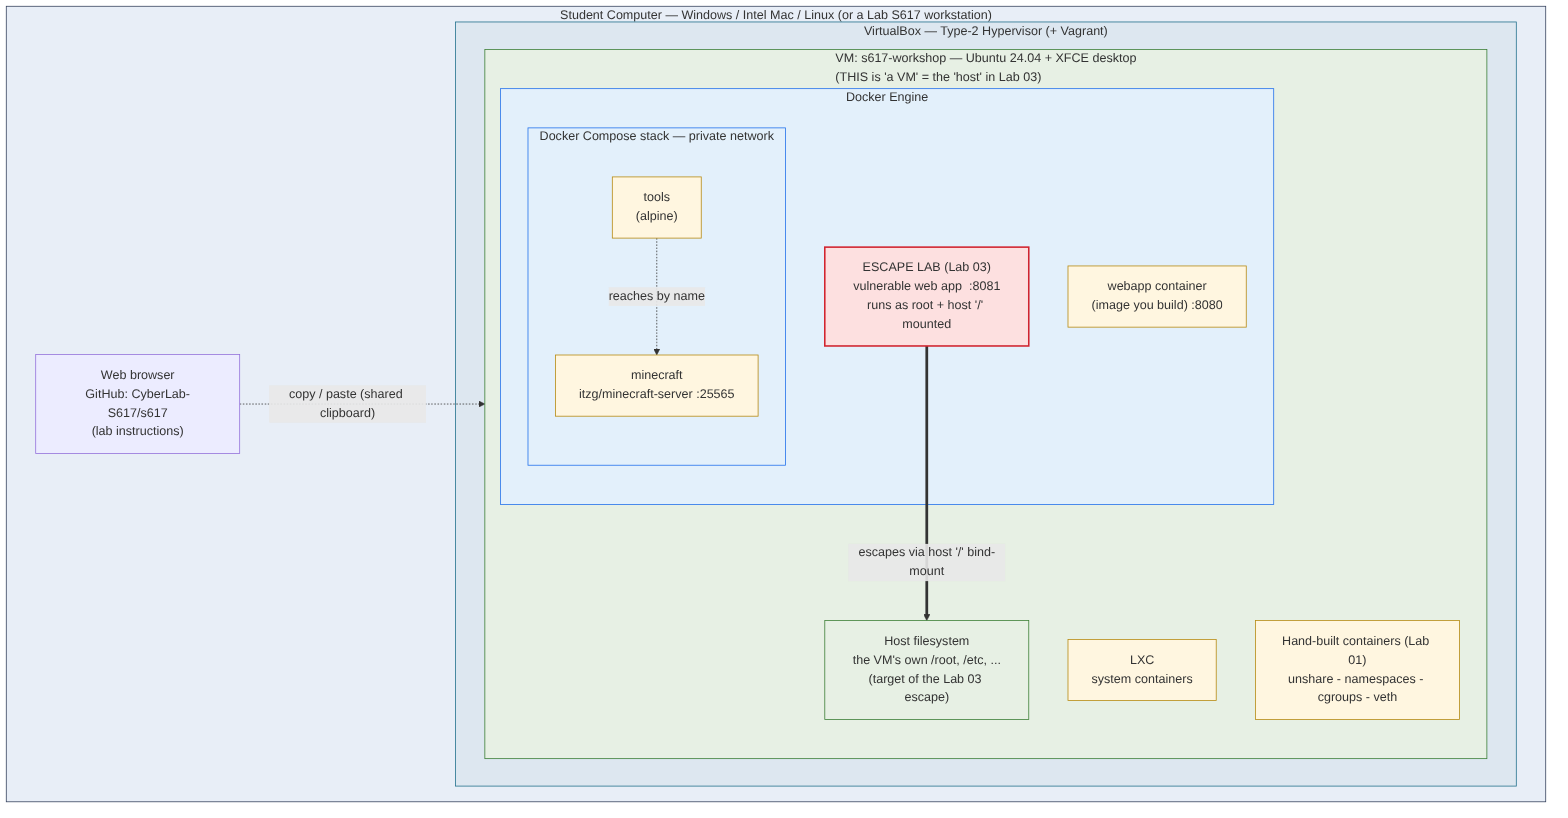
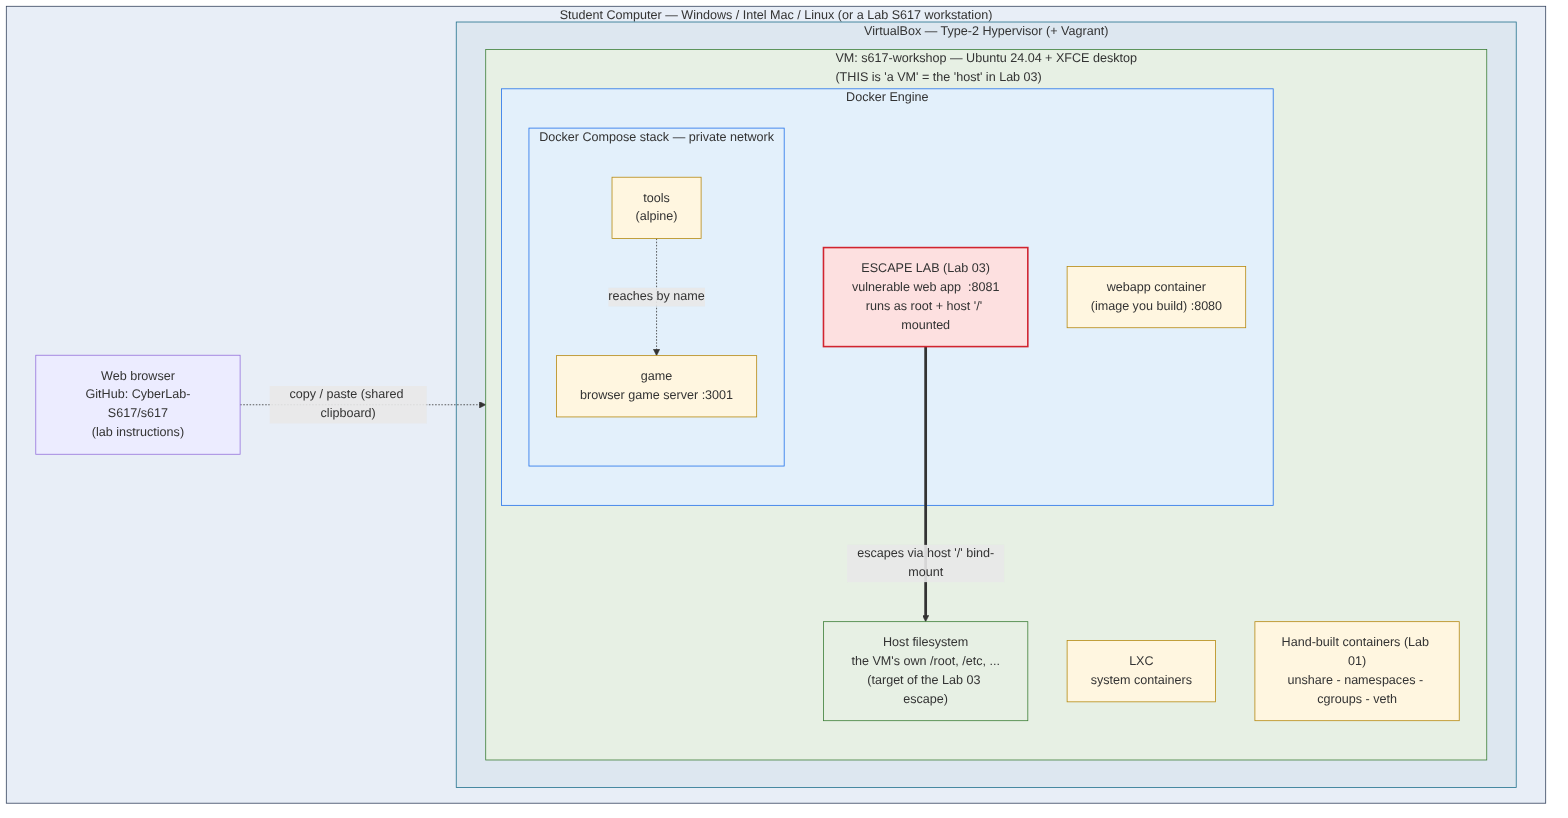
change to webgame

diff --git a/labs/00virtualization/topology.md b/labs/00virtualization/topology.md
@@ -1,0 +1,88 @@
+# Workshop Topology
+
+How the workshop fits together. The key idea students should take away is the
+**nesting**: a VM runs inside VirtualBox on their computer, and containers run
+inside that VM. **A VirtualBox window = a VM; a shell with a different prompt
+inside it = a container.**
+
+## Technical stack (what each student runs)
+
+```mermaid
+flowchart TB
+    subgraph HOST["Student Computer — Windows / Intel Mac / Linux  (or a Lab S617 workstation)"]
+        BROWSER["Web browser<br/>GitHub: CyberLab-S617/s617<br/>(lab instructions)"]
+        subgraph VBOX["VirtualBox — Type-2 Hypervisor  (+ Vagrant)"]
+            subgraph VM["VM: s617-workshop — Ubuntu 24.04 + XFCE desktop<br/>(THIS is 'a VM' = the 'host' in Lab 03)"]
+                subgraph DOCKER["Docker Engine"]
+                    WEB["webapp container<br/>(image you build)  :8080"]
+                    subgraph COMPOSE["Docker Compose stack — private network"]
+                        MC["game<br/>browser game server  :3001"]
+                        TOOLS["tools<br/>(alpine)"]
+                    end
+                    ESCAPE["ESCAPE LAB (Lab 03)<br/>vulnerable web app  :8081<br/>runs as root + host '/' mounted"]
+                end
+                HOSTFS["Host filesystem<br/>the VM's own /root, /etc, ...<br/>(target of the Lab 03 escape)"]
+                LXC["LXC<br/>system containers"]
+                HAND["Hand-built containers (Lab 01)<br/>unshare - namespaces - cgroups - veth"]
+            end
+        end
+    end
+    BROWSER -. "copy / paste (shared clipboard)" .-> VM
+    TOOLS -. "reaches by name" .-> MC
+    ESCAPE == "escapes via host '/' bind-mount" ==> HOSTFS
+
+    classDef host fill:#e8eef7,stroke:#33415c,stroke-width:1px;
+    classDef vbox fill:#dde7f0,stroke:#1f6f8b,stroke-width:1px;
+    classDef vm fill:#e7f0e4,stroke:#3a7d34,stroke-width:1px;
+    classDef docker fill:#e3f0fb,stroke:#1f6feb,stroke-width:1px;
+    classDef cont fill:#fff6e0,stroke:#b5880f,stroke-width:1px;
+    classDef danger fill:#fde0e0,stroke:#d1242f,stroke-width:2px;
+    class HOST host;
+    class VBOX vbox;
+    class VM vm;
+    class DOCKER,COMPOSE docker;
+    class WEB,MC,TOOLS,LXC,HAND cont;
+    class ESCAPE danger;
+    class HOSTFS vm;
+```
+
+**Reading it from the outside in:**
+
+- **Student Computer** — their own laptop (Windows / Intel Mac / Linux) or a Lab
+  S617 workstation. A browser shows the lab instructions from GitHub.
+- **VirtualBox (+ Vagrant)** — the Type-2 hypervisor. `vagrant up` builds the VM
+  from a recipe. The shared clipboard lets students paste commands from the
+  GitHub page into the VM.
+- **VM `s617-workshop`** — Ubuntu 24.04 with an XFCE desktop. *This* is the
+  virtual machine (its own kernel, own desktop).
+- **Inside the VM:**
+  - **Docker Engine** runs the **webapp** container (the image students build)
+    and the **Compose stack** — a browser game server plus a `tools` container
+    that reaches it by name over Docker's private network.
+  - **LXC** for system containers.
+  - **Hand-built containers** from Lab 01 (namespaces, cgroups, veth) — the same
+    isolation Docker automates, built by hand.
+  - **The Escape Lab (Lab 03)** — a deliberately misconfigured container (runs as
+    root, with the host `/` bind-mounted). The red arrow shows it breaking out of
+    the Docker boundary to write to the **host filesystem** — a container escape,
+    performed and then fixed, all inside the student's own disposable VM.
+
+## Delivery (hybrid — Dec 2)
+
+```mermaid
+flowchart LR
+    INP["In-person students<br/>Lab S617 workstations<br/>or their own laptops"] --> LAB["Workshop session<br/>Cyber Lab S617 — Dec 2"]
+    REM["Remote students<br/>Webex / Zoom"] --> LAB
+    UNSUP["Unsupported device?<br/>(Apple Silicon Mac, Chromebook)"] --> INP
+    LAB --> REPO["GitHub: CyberLab-S617/s617<br/>instructions + portfolio submissions (PRs)"]
+
+    classDef a fill:#e7f0e4,stroke:#3a7d34;
+    classDef b fill:#e3f0fb,stroke:#1f6feb;
+    classDef c fill:#fff6e0,stroke:#b5880f;
+    class INP,REM a;
+    class LAB b;
+    class UNSUP,REPO c;
+```
+
+A rendered image of the technical stack is in **`topology.png`** (and
+`topology.svg`) for use in slides or the flyer.

diff --git a/labs/00virtualization/README.md b/labs/00virtualization/README.md
@@ -2,7 +2,7 @@
 
 Build it, break it, defend it. A hands-on workshop where you stand up your own
 virtual lab with one command, build and run containers with Docker, deploy a
-real **Minecraft server** with Docker Compose, **perform a real container escape
+real **browser game server** with Docker Compose, **perform a real container escape
 and then fix it**, and learn how these systems are attacked and defended -
 finishing with a project for your **GitHub portfolio**.
 
@@ -22,7 +22,7 @@ Work through the files in order:
 3. **[01-namespaces-and-cgroups.md](01-namespaces-and-cgroups.md)** - build a
    container *by hand* and see how isolation really works (and how it leaks).
 4. **[02-docker-and-compose.md](02-docker-and-compose.md)** - build your own
-   Docker image, then run a Minecraft server with Docker Compose.
+   Docker image, then run a browser game server with Docker Compose.
 5. **[03-container-escape-and-mitigation.md](03-container-escape-and-mitigation.md)**
    - perform a real container escape (web shell → host takeover) on your own
    disposable VM, then harden it so the escape fails.
@@ -61,7 +61,7 @@ Everyone's welcome.
 |--- SETUP.md                 # install + run the VM (start here)
 |--- 00-foundations-...md      # concepts + attack/defense
 |--- 01-namespaces-...md       # containers by hand
-|--- 02-docker-and-compose.md  # Docker + Compose (build a web app, run Minecraft)
+|--- 02-docker-and-compose.md  # Docker + Compose (build a web app, run a game)
 |--- 03-container-escape-and-mitigation.md   # perform + fix a container escape
 |--- Vagrantfile               # defines the workshop VM
 |--- bootstrap.sh              # provisions it (Docker, LXC, XFCE desktop)
@@ -70,7 +70,7 @@ Everyone's welcome.
     |   |--- Dockerfile
     |   |--- entrypoint.sh
     |   \--- index.html
-    |--- minecraft/            # Lab 02 Part 4-5: run a server with Compose
+    |--- webgame/              # Lab 02 Part 4-5: run a browser game with Compose
     |   \--- docker-compose.yml
     \--- escape/               # Lab 03: vulnerable + hardened stacks
         |--- site/index.php    #   the deliberately vulnerable app (lab only)
